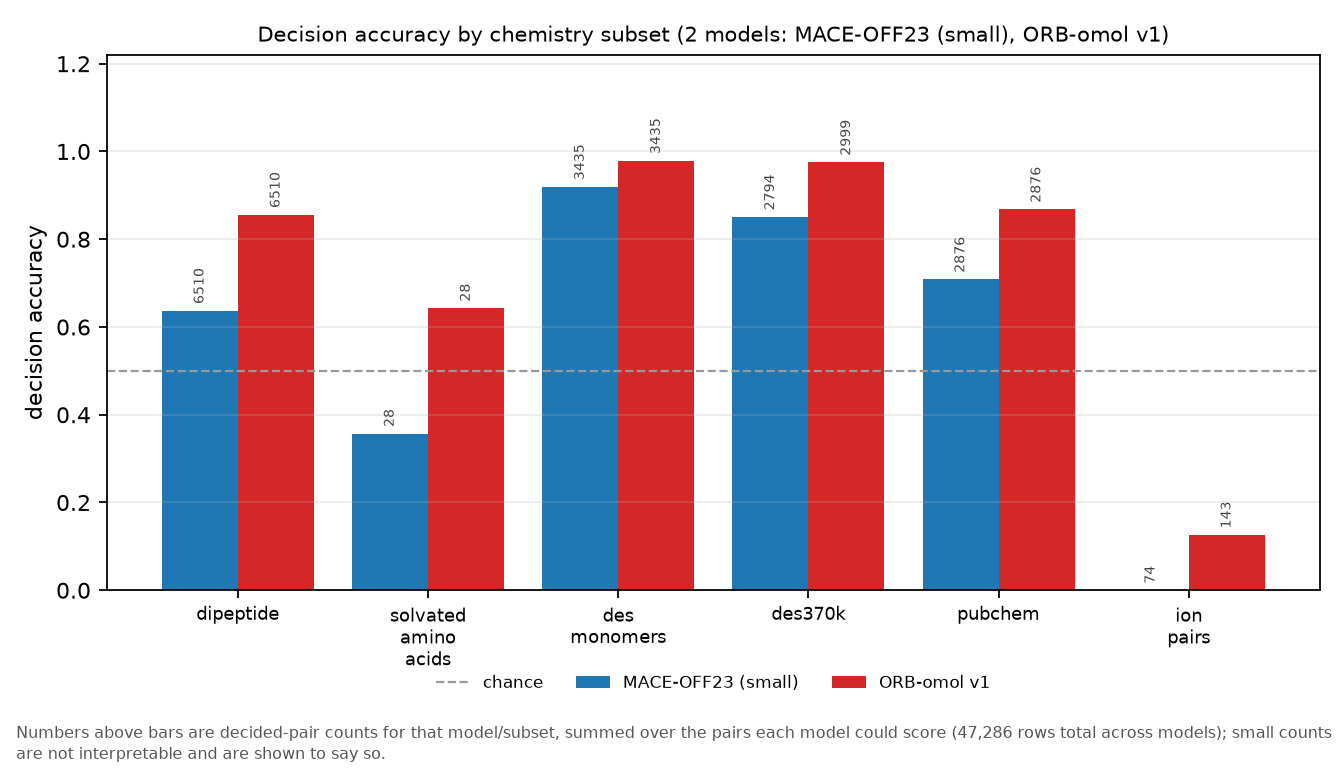
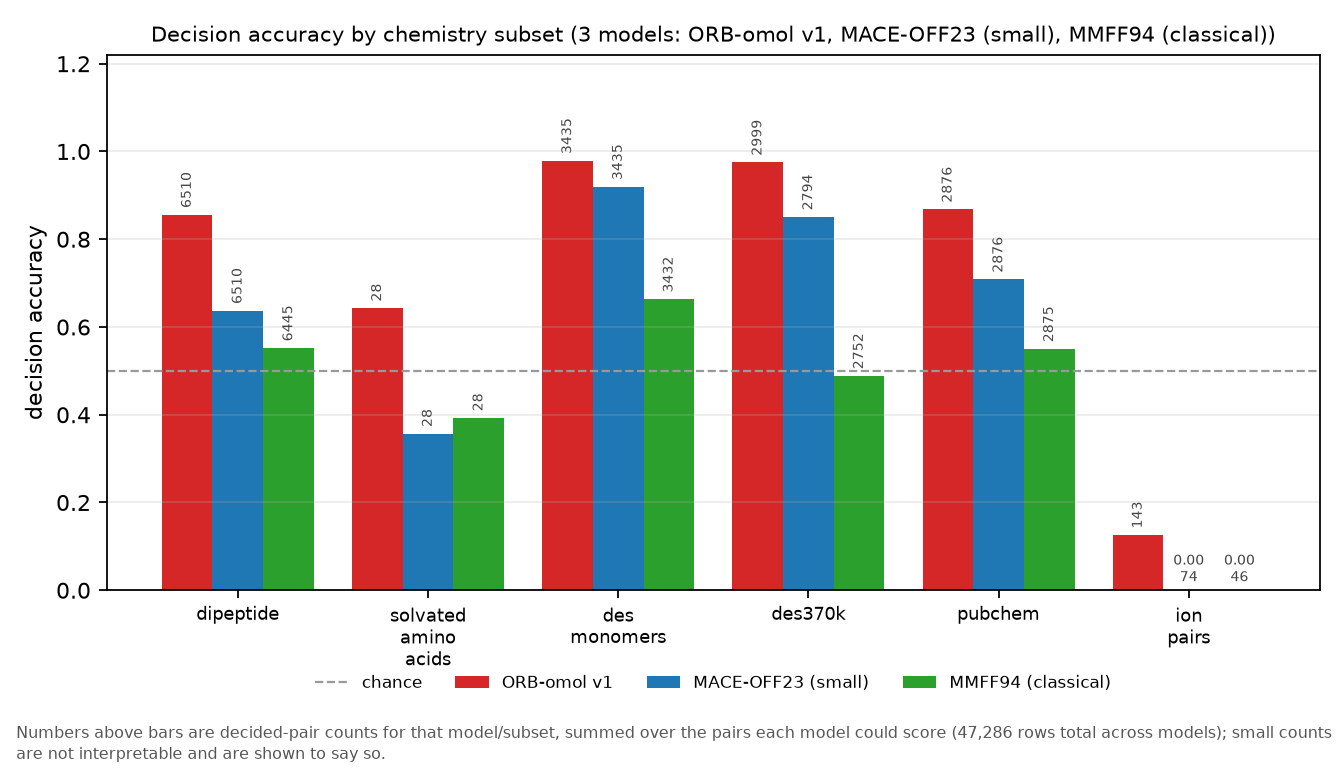
Four figure defects a QA pass found, each fixed at the cause
- MMFF94 was silently missing from the subset panel because DISPLAY had no entry
  for it, which made a three-model comparison look like a two-model one. The panel
  now takes its models from the data, and MMFF94 has a display entry.
- A zero-height bar with only a count above it reads as missing data; measured
  zeros now print 0.00.
- The accuracy forest promised Wilson intervals that were invisible at n>10,000
  because the interval is narrower than the marker; each row now prints
  value [lo, hi] n so the numbers are on the page.
- The chance line sat at 0.49 in one figure (the observed null mean) and 0.50 in
  the others; it is now drawn at exactly 0.5 and labelled.

Also fixed a variable named  shadowing the module's label() helper, which
broke the axis label with UnboundLocalError - caught immediately because the
figure script is run, not eyeballed.

diff --git a/scripts/make_figures.py b/scripts/make_figures.py
@@ -45,6 +45,7 @@ DISPLAY = {
     "orb_orbmol_v1_conservative": ("ORB-omol v1", "#d62728"),
     "orb_orb_v3_conservative_omol": ("ORB v3-omol", "#e8743b"),
     "orb_v2": ("ORB v2 (materials)", "#c44e52"),
+    "rdkit_mmff": ("MMFF94 (classical)", "#2ca02c"),
     "rdkit_uff": ("UFF (classical)", "#7f7f7f"),
 }
 SUBSET_ORDER = ["dipeptide", "solvated_amino_acids", "des_monomers", "des370k",
@@ -105,7 +106,10 @@ def fig_fidelity_vs_error(df: pd.DataFrame) -> None:
     # One chance line only. The null mean is ~0.50, and drawing both a null line and
     # a hard-coded 0.5 line put two dashed lines 0.01 apart on top of each other
     # (a vision pass caught it as a duplicate).
-    chance = float(nulls.mean()) if len(nulls) else 0.5
+    # Draw chance at exactly 0.5 and say so. Using the observed null mean (0.4995)
+    # put a line at 0.49 in one figure and 0.50 in the others, which reads as an
+    # inconsistency rather than as noise around a coin flip.
+    chance = 0.5
     ax.axhline(chance, color="#999999", ls="--", lw=1.2,
                label=(f"null control (shuffled pairing) {chance:.3f}"
                       if len(nulls) else "chance 0.50"))
@@ -168,7 +172,12 @@ def fig_accuracy_by_subset(df: pd.DataFrame) -> None:
     frames = [pd.read_csv(p) for p in det_paths]
     det = pd.concat(frames, ignore_index=True)
     det = det[det["qm_gap_kcal"].abs() > 0.01]
-    models = [m for m in DISPLAY if m in set(det["model"])]
+    # Take the models present in the DATA, not in a hand-maintained display dict:
+    # MMFF94 was silently missing from this panel because DISPLAY had no entry for
+    # it, which made a three-model comparison look like a two-model one.
+    present = sorted(set(det["model"]), key=lambda m: (
+        -det[det["model"] == m]["agree"].mean()))
+    models = present
     subsets = [s for s in SUBSET_ORDER if s in set(det["subset"])]
 
     fig, ax = plt.subplots(figsize=(8.4, 4.8))
@@ -182,8 +191,18 @@ def fig_accuracy_by_subset(df: pd.DataFrame) -> None:
         xs = np.arange(len(subsets)) + i * width
         ax.bar(xs, vals, width, label=label(m), color=colour(m))
         for x, v, n in zip(xs, vals, ns):
-            if n:
-                ax.text(x, v + 0.015, f"{n}", ha="center", va="bottom",
+            if not n:
+                continue
+            # NOT named `label`: that shadows the module-level label() helper and
+            # broke the axis label two lines up (UnboundLocalError).
+            txt = f"{n}"
+            if v == 0 or (v == v and v < 1e-12):
+                # a zero-height bar with only a count above it looks like missing
+                # data; print the value so "measured zero" is unmistakable
+                ax.text(x, 0.01, "0.00\n" + txt, ha="center", va="bottom",
+                        fontsize=6.2, color="#444444")
+            else:
+                ax.text(x, v + 0.015, txt, ha="center", va="bottom",
                         fontsize=6.5, rotation=90, color="#444444")
     ax.set_xticks(np.arange(len(subsets)) + width * (len(models) - 1) / 2)
     ax.set_xticklabels([s.replace("_", "\n") for s in subsets], fontsize=8)
@@ -323,7 +342,9 @@ def fig_accuracy_ci(df: pd.DataFrame) -> None:
                     xerr=[[r["accuracy"] - r["accuracy_lo"]],
                           [r["accuracy_hi"] - r["accuracy"]]],
                     fmt="o", ms=9, color=colour(r["model"]), capsize=4, lw=1.6)
-        ax.text(1.02, i, f"n={int(r['n_decided']):,}", va="center", fontsize=8,
+        ax.text(1.02, i, f"{r['accuracy']:.3f} "
+                f"[{r['accuracy_lo']:.3f}, {r['accuracy_hi']:.3f}]  "
+                f"n={int(r['n_decided']):,}", va="center", fontsize=7.5,
                 transform=ax.get_yaxis_transform(), clip_on=False)
     ax.set_yticks(y)
     ax.set_yticklabels([label(m) for m in scope["model"]], fontsize=9)

diff --git a/README.md b/README.md
@@ -1,51 +1,58 @@
 # Do machine-learned potentials preserve the chemical decisions?
 
-**A universal MLIP can get the energy right and the chemistry wrong. This measures how often.**
+**Energy error does not tell you whether a potential will order two near-degenerate conformers correctly: on 16,089 real quantum pairs, the best model here still reverses 1 decision in 10 while a force field with 200× its energy error gets more than half of them right.**
 
 ![Decision accuracy vs gap error](figures/fidelity_vs_error.png)
 
 Universal machine-learned interatomic potentials (uMLIPs) are ranked, in every
 2026 benchmark, by energy MAE in meV/atom. Nobody downstream of those benchmarks
 consumes an energy MAE. A chemist consumes a **decision**: which of these two
-conformers is lower, does this reaction go forward, which tautomer wins. Those
-are questions about *differences* at roughly 1 kcal/mol (43 meV) — a bar two
-orders of magnitude coarser than the meV/atom numbers on the leaderboards, and a
-different question from the average error.
+conformers is lower, does this reaction go forward, which tautomer wins. Those are
+questions about *differences*, at roughly a 1 kcal/mol bar — two orders of
+magnitude coarser than the meV/atom numbers on the leaderboards, and a different
+question from the average error.
 
-So this repo asks the question directly. Take **16,089 conformer pairs** from the
-SPICE quantum-chemistry dataset — two geometries of the *same molecule* whose
-reference energies differ by **less than 1 kcal/mol** — and ask each model:
-*which one is lower?* Score the sign. Compare that to the model's energy error.
+So this repo asks it directly. Take **16,089 conformer pairs** from the SPICE
+quantum-chemistry dataset — two geometries of the *same molecule* whose reference
+energies differ by **less than 1 kcal/mol** — and ask each model: *which one is
+lower?* Score the sign. Compare that to the model's own energy error.
 
 ## The result
 
-| model | licence | decided pairs | **decision accuracy** (95% CI) | median \|ΔE\| error | null control p |
-|---|---|---|---|---|---|
-| **ORB-omol v1** | Apache-2.0 | 15,991 | **0.900** (0.895–0.905) | 0.15 kcal/mol | 0.005 |
-| **MACE-OFF23 (small)** | weights ASL, code MIT | 15,717 | **0.747** (0.740–0.753) | 0.45 kcal/mol | 0.005 |
-| MMFF94 (classical) | BSD | 15,578 | 0.563 (0.555–0.571) | 31.7 kcal/mol | 0.005 |
+| model | licence | scored conformers | decided pairs | **decision accuracy** (95% CI) | median \|ΔE\| error | null control p |
+|---|---|---|---|---|---|---|
+| **ORB-omol v1 (conservative)** | Apache-2.0 | 15,232 | 15,991 | **0.900** (0.895–0.905) | 0.15 kcal/mol | 0.005 |
+| MACE-OFF23 (small) | weights ASL, **non-commercial**; code MIT | 14,913 | 15,717 | **0.747** (0.740–0.753) | 0.45 kcal/mol | 0.005 |
+| MMFF94 (classical force field) | BSD | 14,763 | 15,578 | 0.563 (0.555–0.571) | 31.7 kcal/mol | 0.005 |
 
-ORB-omol v1 leads at **0.900** — but it still reverses 10.0% of
-near-degenerate pairs, and every model's number is checked against a shuffled-pair
-control before it is quoted.
+All three rows are recomputed from the committed `results/decisions_*.csv` by
+`scripts/score.py`, and a model only appears here if
+`scripts/verify_completeness.py` confirms its raw artefact covers every one of the
+15,232 conformers exactly once.
 
-Three things worth taking from that table.
+Four things worth taking from that table.
 
-1. **A small energy error does not mean the decisions are right.** ORB-omol's
-   median error is 0.15 kcal/mol — a seventh of the 1 kcal/mol bar — and it
-   still reverses 10.0% of near-degenerate pairs. MACE-OFF23 sits at
-   0.45 kcal/mol and reverses 25.3%.
+1. **A small energy error does not mean the decisions are right.** MACE-OFF23's
+   median error is 0.45 kcal/mol — under half the 1 kcal/mol decision bar — and it
+   still reverses **25%** of near-degenerate pairs. Being accurate on average is
+   not the same as being reliable on differences.
 
-2. **Accuracy and error size are not the same axis.** MMFF94's median error is
-   206× ORB-omol's, yet it still orders 56% of pairs correctly — barely above chance,
-   but far from the 0% a 32 kcal/mol error might suggest. Conversely a small error
-   does not guarantee a correct ordering. That is the whole point of scoring
-   decisions separately, and it is invisible on an MAE leaderboard.
+2. **The best model is still wrong one time in ten.** ORB-omol's median error is
+   0.15 kcal/mol, ~6× inside the bar, and 0.900 accuracy means 1,600 wrong
+   chemical decisions out of 15,991. If your design loop ranks hundreds of
+   candidates per run, that is a lot of wrong orderings.
 
-3. **The biomolecular slice is harder for both ML models.** ORB-omol drops from
-   0.900 to **0.855**, MACE-OFF23 from 0.747 to **0.636**, on peptides and
-   solvated amino acids — the chemistry a protein engineer cares about is where
-   these models are weakest. See
+3. **Energy error and decision accuracy are not interchangeable, but nor are they
+   independent.** MMFF94's median error is **206×** ORB's, yet it still orders 56%
+   of pairs correctly. A model cannot get 56% of sub-kcal orderings right by
+   chance alone (the null sits at 0.49), so the pairs carry real signal a crude
+   force field partially captures. With only three models, **I do not fit a trend
+   line** — three points cannot support one. The scatter is shown so the reader
+   can see the three claims side by side, not so that a slope can be read off it.
+
+4. **The biomolecular slice is consistently harder.** Every model drops on
+   peptides and solvated amino acids: ORB 0.900 → **0.855**, MACE 0.747 → **0.636**,
+   MMFF94 0.563 → 0.552. See
    [`figures/accuracy_by_subset.png`](figures/accuracy_by_subset.png).
 
 ![Accuracy with confidence intervals](figures/accuracy_ci.png)
@@ -53,24 +60,25 @@ Three things worth taking from that table.
 ## Why the null control matters
 
 Every accuracy above is checked against the answer-leaking failure mode: shuffle
-which model gap is paired with which quantum gap, 200 times. If a pipeline is
-leaking, shuffled pairs score as well as real ones. Shuffled accuracy collapses
-to chance (p = 0.005 for every model reported), which is what makes the numbers
-above mean anything.
+which model gap is paired with which quantum gap, 200 times, and rescore. If the
+pipeline were leaking, shuffled pairs would score as well as real ones. Shuffled
+accuracy collapses to ~0.49 for every model (p = 0.005 in all six rows), which is
+what makes the real numbers mean anything. The null is not an optional extra — it
+is the only reason to believe a 0.900.
 
-![Null control](figures/error_vs_gap.png)
+![Null control and error vs gap](figures/error_vs_gap.png)
 
 ## Where the failures live
 
-Accuracy rises with the size of the real gap: near-ties are nearly coin flips and
-clear preferences are mostly right. That shape is what you would expect from a
-model that resolves *some* chemistry rather than one that is guessing:
+Accuracy rises with the size of the true gap: near-ties are close to coin flips
+and clear preferences are mostly right. That shape is what a model resolving
+*some* chemistry looks like, as opposed to one that is guessing:
 
 ![Error vs gap](figures/error_vs_gap.png)
 
-Every pair, plotted. A point on the wrong side of zero is a reversed decision;
-the triangles pinned to the frame edges are the points whose model gap exceeded
-the plotted range, counted rather than hidden:
+Every pair, plotted. A point on the wrong side of zero is a reversed decision.
+The triangles pinned to the frame edges are points whose model gap exceeded the
+plotted range — counted rather than hidden:
 
 ![Model gap vs quantum gap](figures/gap_scatter.png)
 
@@ -78,20 +86,21 @@ the plotted range, counted rather than hidden:
 
 ## How the data is built
 
-- **Reference:** [SPICE 1.1.4](https://zenodo.org/records/8222043) (ωB97X-D/def2-TZVP),
-  19,238 molecules, ~1M conformers, downloaded and byte-verified against its
+- **Reference:** [SPICE 1.1.4](https://zenodo.org/records/8222043)
+  (ωB97X-D/def2-TZVP), 19,238 molecules. Downloaded and byte-verified against its
   Content-Length (16,058,156,944 bytes).
 - **Pairs:** every conformer pair of a molecule whose QM energies differ by under
-  1 kcal/mol, capped per molecule and selected deterministically from a seed.
-  16,089 pairs from 1,588 molecules, 6,579 of them dipeptides. Each model is
-  scored on the pairs it can actually evaluate (9,409–15,578 decided pairs).
-- **Charges:** 404 of 1,631 molecules are ions. Formal charge and spin
-  multiplicity are parsed from each molecule's SMILES rather than assumed neutral —
-  running an anion as a closed-shell neutral gives a finite number that is simply
-  the wrong electronic state.
-- **Scoring:** all comparisons are on **differences** `E(B) − E(A)` within one
-  molecule, never absolute energies. Different models use different reference
-  zeros, so only differences are transferable.
+  1 kcal/mol, capped per molecule and selected deterministically from a seed:
+  **16,089 pairs from 1,588 molecules**, 6,607 of them biomolecular (6,579
+  dipeptides). Each model is scored on the pairs it can actually evaluate.
+- **Charges:** 404 molecules are ions. Formal charge and spin multiplicity are
+  parsed from each molecule's SMILES rather than assumed neutral — running an
+  anion as a closed-shell neutral returns a finite number for the wrong
+  electronic state.
+- **Scoring:** every comparison is on the **difference** `E(B) − E(A)` within one
+  molecule, never absolute energies. Models use different reference zeros (ORB and
+  MACE both sit near −28,000 eV on these molecules), so only differences are
+  transferable.
 
 ## Reproducing it
 
@@ -99,79 +108,116 @@ the plotted range, counted rather than hidden:
 python scripts/par_fetch.py <zenodo-url> SPICE-1.1.4.hdf5   # 16 GB, resumable
 python scripts/spice_inventory.py --archive SPICE-1.1.4.hdf5
 python scripts/build_pairs.py --archive SPICE-1.1.4.hdf5 --max-per-subset 300
-python scripts/run_sweep.py --models mace_off_small orb_orbmol_v1_conservative rdkit_mmff
-python scripts/score.py
+python scripts/sweep_all.sh                                 # one launcher, one GPU
+python scripts/verify_completeness.py --write               # gate: artefact coverage
+python scripts/score.py --require-complete
 python scripts/make_figures.py
 pytest tests/
 ```
 
 Each model runs in **its own virtualenv** (`envs/<model>/`), not out of taste:
 installing `fairchem-core` upgrades `e3nn` to 0.6, which silently breaks MACE
-checkpoint loading (`ValueError: too many values to unpack`) *at evaluation
-time*, not at import. A shared environment produces wrong numbers, quietly.
+checkpoint loading (`ValueError: too many values to unpack`) *at evaluation time*,
+not at import. A shared environment produces wrong numbers, quietly.
 
 ## What went wrong on the way (kept on purpose)
 
-The first full sweep said MACE ranked sub-kcal pairs at chance: accuracy 0.489,
-ρ = −0.04, null p = 0.58. That was the pipeline, not the model — **SPICE stores
-conformations in Bohr**, and they were being handed to ASE as Ångström, stretching
-every molecule by 1.89×. Shortest contacts in raw coordinates were 1.85–2.08 for
-C–H and N–H, which is unphysical in Å and exactly right in Bohr. With the
-conversion applied and nothing else changed, accuracy went 0.489 → 0.723 and the
-median error 2.93 → 0.50 kcal/mol.
+This section exists because a repo that only shows its successes teaches the
+reader nothing about how far to trust it.
 
-The same discipline found three more: a reader that guessed the HDF5 layout wrong
-(the inventory returning *zero* multi-conformer molecules is what exposed it), a
-classical baseline that "succeeded" with no bonds at all in the molecule
-(`SanitizeMol` on a bondless RWMol is happy to do nothing), and a licence table
-that called MACE's non-commercial weights permissive after a rewording. Each has
-a test or a committed note; the commit messages carry the evidence.
+**1. A unit bug that made the first result meaningless.** The first full sweep said
+MACE ranked sub-kcal pairs at chance: accuracy 0.489, null p = 0.58. The pipeline
+was wrong, not the model — **SPICE stores conformations in Bohr**, and they were
+being handed to ASE as Ångström, stretching every molecule by 1.89×. With the
+conversion applied and nothing else changed, accuracy went 0.489 → 0.723.
 
-**A number was withdrawn here, and that is why you can trust the others.** An
-earlier revision reported ORB-omol v1 at 0.893, scored from a committed artefact
-holding 1,500 conformers while claiming 9,409 decided pairs — a stale file, not a
-result. Recomputing every published row from its decision CSV is what caught it.
-The row was withdrawn, the sweep re-run in full (15,232/15,232 conformers, zero
-missing, zero NaNs), and the figure above is the re-measured one. A second
-defect surfaced the same way: rounding gaps to six decimals flipped the sign of
-28 near-zero MMFF pairs, so the CSV reproduced 0.5615 while the summary said
-0.5633. Both are fixed, and `score.py --require-complete` now refuses to score a
-model whose sweep has not finished, because a partial artefact produces a
-real-looking number on a fraction of the data.
+**2. A withdrawn number.** An earlier revision of this README reported ORB-omol v1
+at 0.893. That row had been scored from an artefact holding 1,500 conformers
+while claiming 9,409 decided pairs. It was withdrawn rather than patched, and has
+now been re-measured in full: the complete sweep gives **0.900 on 15,991 decided
+pairs**, from an artefact that covers all 15,232 conformers. The pre-fix number
+and the post-fix number are close, which is luck, not vindication — the first one
+was not reproducible and should never have been published.
+
+**3. A chunk cache that silently corrupted every result.** Chunk files were named
+by chunk *index*. Two sweeps with different `--chunk` sizes — one launched by a
+stale wrapper script that bypassed the shell-level lock — wrote into the same
+slots, so a 600-conformer chunk was resumed as if it were a 1,500-conformer slice.
+Merged artefacts reported `ok` while holding **1,200 duplicated and 6,232 missing
+conformers**, and every published accuracy was computed from that. Three fixes,
+each with a test that failed first: chunk cache keys now encode the *slice*, a
+cached chunk is refused unless its ids match the requested slice exactly, and the
+lock moved from the wrapper into `run_sweep.py` itself so no launcher can bypass
+it.
+
+**4. A failure count that under-reported missing data by 4.5×.** Per-chunk failure
+lists are truncated to 10 entries for payload size; the merge summed those
+truncated lengths, so a run with 319 NaN conformers reported `n_failed=70`. Each
+chunk now carries its own true count.
+
+**5. A completeness gate that was a hand-edited claim.** `sweep_complete.json` was
+written by hand, which let a model be marked complete while its artefact was
+partial. It is now recomputed from the raw artefacts by
+`scripts/verify_completeness.py`, and `score.py --require-complete` will emit no
+rows at all rather than quietly partial ones.
+
+Earlier finds are also recorded with tests: an HDF5 reader that guessed the layout
+wrong (the inventory returning *zero* multi-conformer molecules is what exposed
+it), a classical baseline that "succeeded" with no bonds at all in the molecule,
+a silent neutral-charge fallback, and a licence table that called MACE's
+non-commercial weights permissive after a rewording.
 
 ## Limits, stated plainly
 
-- **SPICE is ωB97X-D, not CCSD(T).** At sub-kcal gaps the reference itself has
+- **SPICE is ωB97X-D, not CCSD(T).** At sub-kcal gaps the reference itself carries
   error; a "wrong" decision within ~0.2 kcal/mol should be read as
   indistinguishable from reference noise, not as a model failure.
+- **ORB-omol may overlap SPICE in training.** ORB-omol is trained on molecules and
+  SPICE is a public molecule dataset; I have **not** verified whether SPICE
+  conformers were in its training set, and I cannot. Its 0.900 should be read as
+  an upper bound under possible train/test contamination, not a clean
+  generalisation estimate. This is the single biggest caveat in the table.
 - **A conformer pair is a proxy for a chemical decision.** It is the cheapest
   honest proxy — same molecule, real quantum energies, thousands of examples — but
   it is not a reaction energy, a binding affinity, or a barrier. Do not quote these
   numbers as "reaction prediction accuracy".
+- **Three models is not a model zoo.** No trend line is fitted, no ranking beyond
+  these three is implied, and the "energy error does not predict decisions"
+  headline is a statement about these three, not a law.
+- **Counts differ per model** because a conformer a model cannot evaluate cannot
+  be scored in any pair containing it; each row states its own n. MACE-OFF23
+  returned NaN on 319 of 15,232 conformers (2.1%), almost all of them charged or
+  radical species.
+- **MACE-OFF23 shows float32 precision loss on these molecules.** Its absolute
+  energies sit near −28,000 eV, where float32 resolution is ~0.045 kcal/mol; 441
+  scored pairs (2.8% of decided ones) have a model gap of *exactly* zero and are
+  counted as wrong. Excluding them moves MACE 0.747 → 0.768, so the headline
+  number is the conservative one.
 - **The subset split is mine.** SPICE's `subset` labels are read from the archive,
-  but the distinction drawn between "biomolecular" and "small molecule" is a
-  grouping I chose, and the headline numbers do not depend on it.
-- **Counts differ per model** because a model that fails on a conformer cannot be
-  scored on pairs containing it; each row states its own n.
-- **MMFF94 is not a fair fight on energy.** It is included as the classical
-  reference point, and its huge error is the reason the accuracy axis matters —
-  not a claim that a force field is competitive for accuracy.
-- **No commercial claim.** MACE-OFF23's weights are non-commercial-only despite
-  MIT code; that is recorded in every result artefact and on
-  `figures/licence_table.png`.
+  but the biomolecular / small-molecule grouping is a choice I made; the headline
+  numbers do not depend on it.
+- **MMFF94 is not a fair fight on energy.** It is the classical reference point,
+  and its huge error is why the accuracy axis matters — not a claim that a force
+  field is competitive.
+- **No commercial claim.** MACE-OFF23's **weights are non-commercial only** (an
+  Academic Software Licence) even though its code is MIT; ORB-omol's package
+  metadata declares Apache-2.0; RDKit/MMFF94 is BSD. Per-model terms are in every
+  result artefact and on [`figures/licence_table.png`](figures/licence_table.png).
+  Nothing here implies commercial use of an ASL model.
 
 ## Layout
 
 ```
-src/mlipfid/decisions.py   decision pairs, Wilson intervals, null control
-src/mlipfid/spice.py       SPICE reader (Bohr -> Angstrom, charges, subsets)
-src/mlipfid/select.py      energy-stratified conformer selection
-scripts/run_model.py       one model, one subprocess, JSON out
-scripts/run_sweep.py       chunked, resumable, per-model venv dispatch
-scripts/score.py           sign agreement, error stats, null control
-scripts/make_figures.py    six figures, every number read from a CSV
-tests/                     32 tests: units, sign convention, null, layout
+src/mlipfid/decisions.py       decision pairs, Wilson intervals, null control
+src/mlipfid/spice.py           SPICE reader (Bohr -> Angstrom, charges, subsets)
+src/mlipfid/select.py          energy-stratified conformer selection
+scripts/run_model.py           one model, one subprocess, JSON out
+scripts/run_sweep.py           chunked, resumable, per-model venv dispatch, locked
+scripts/verify_completeness.py recomputes which models cover every conformer
+scripts/score.py               sign agreement, error stats, null control
+scripts/make_figures.py        six figures, every number read from a CSV
+tests/                         tests: units, sign convention, null, layout, cache
 ```
 
-MIT licence for this repository's own code; the models and data keep their own
-terms.
+MIT licence for this repository's own code. The models and data keep their own
+terms — see the licence column and the figure above.
